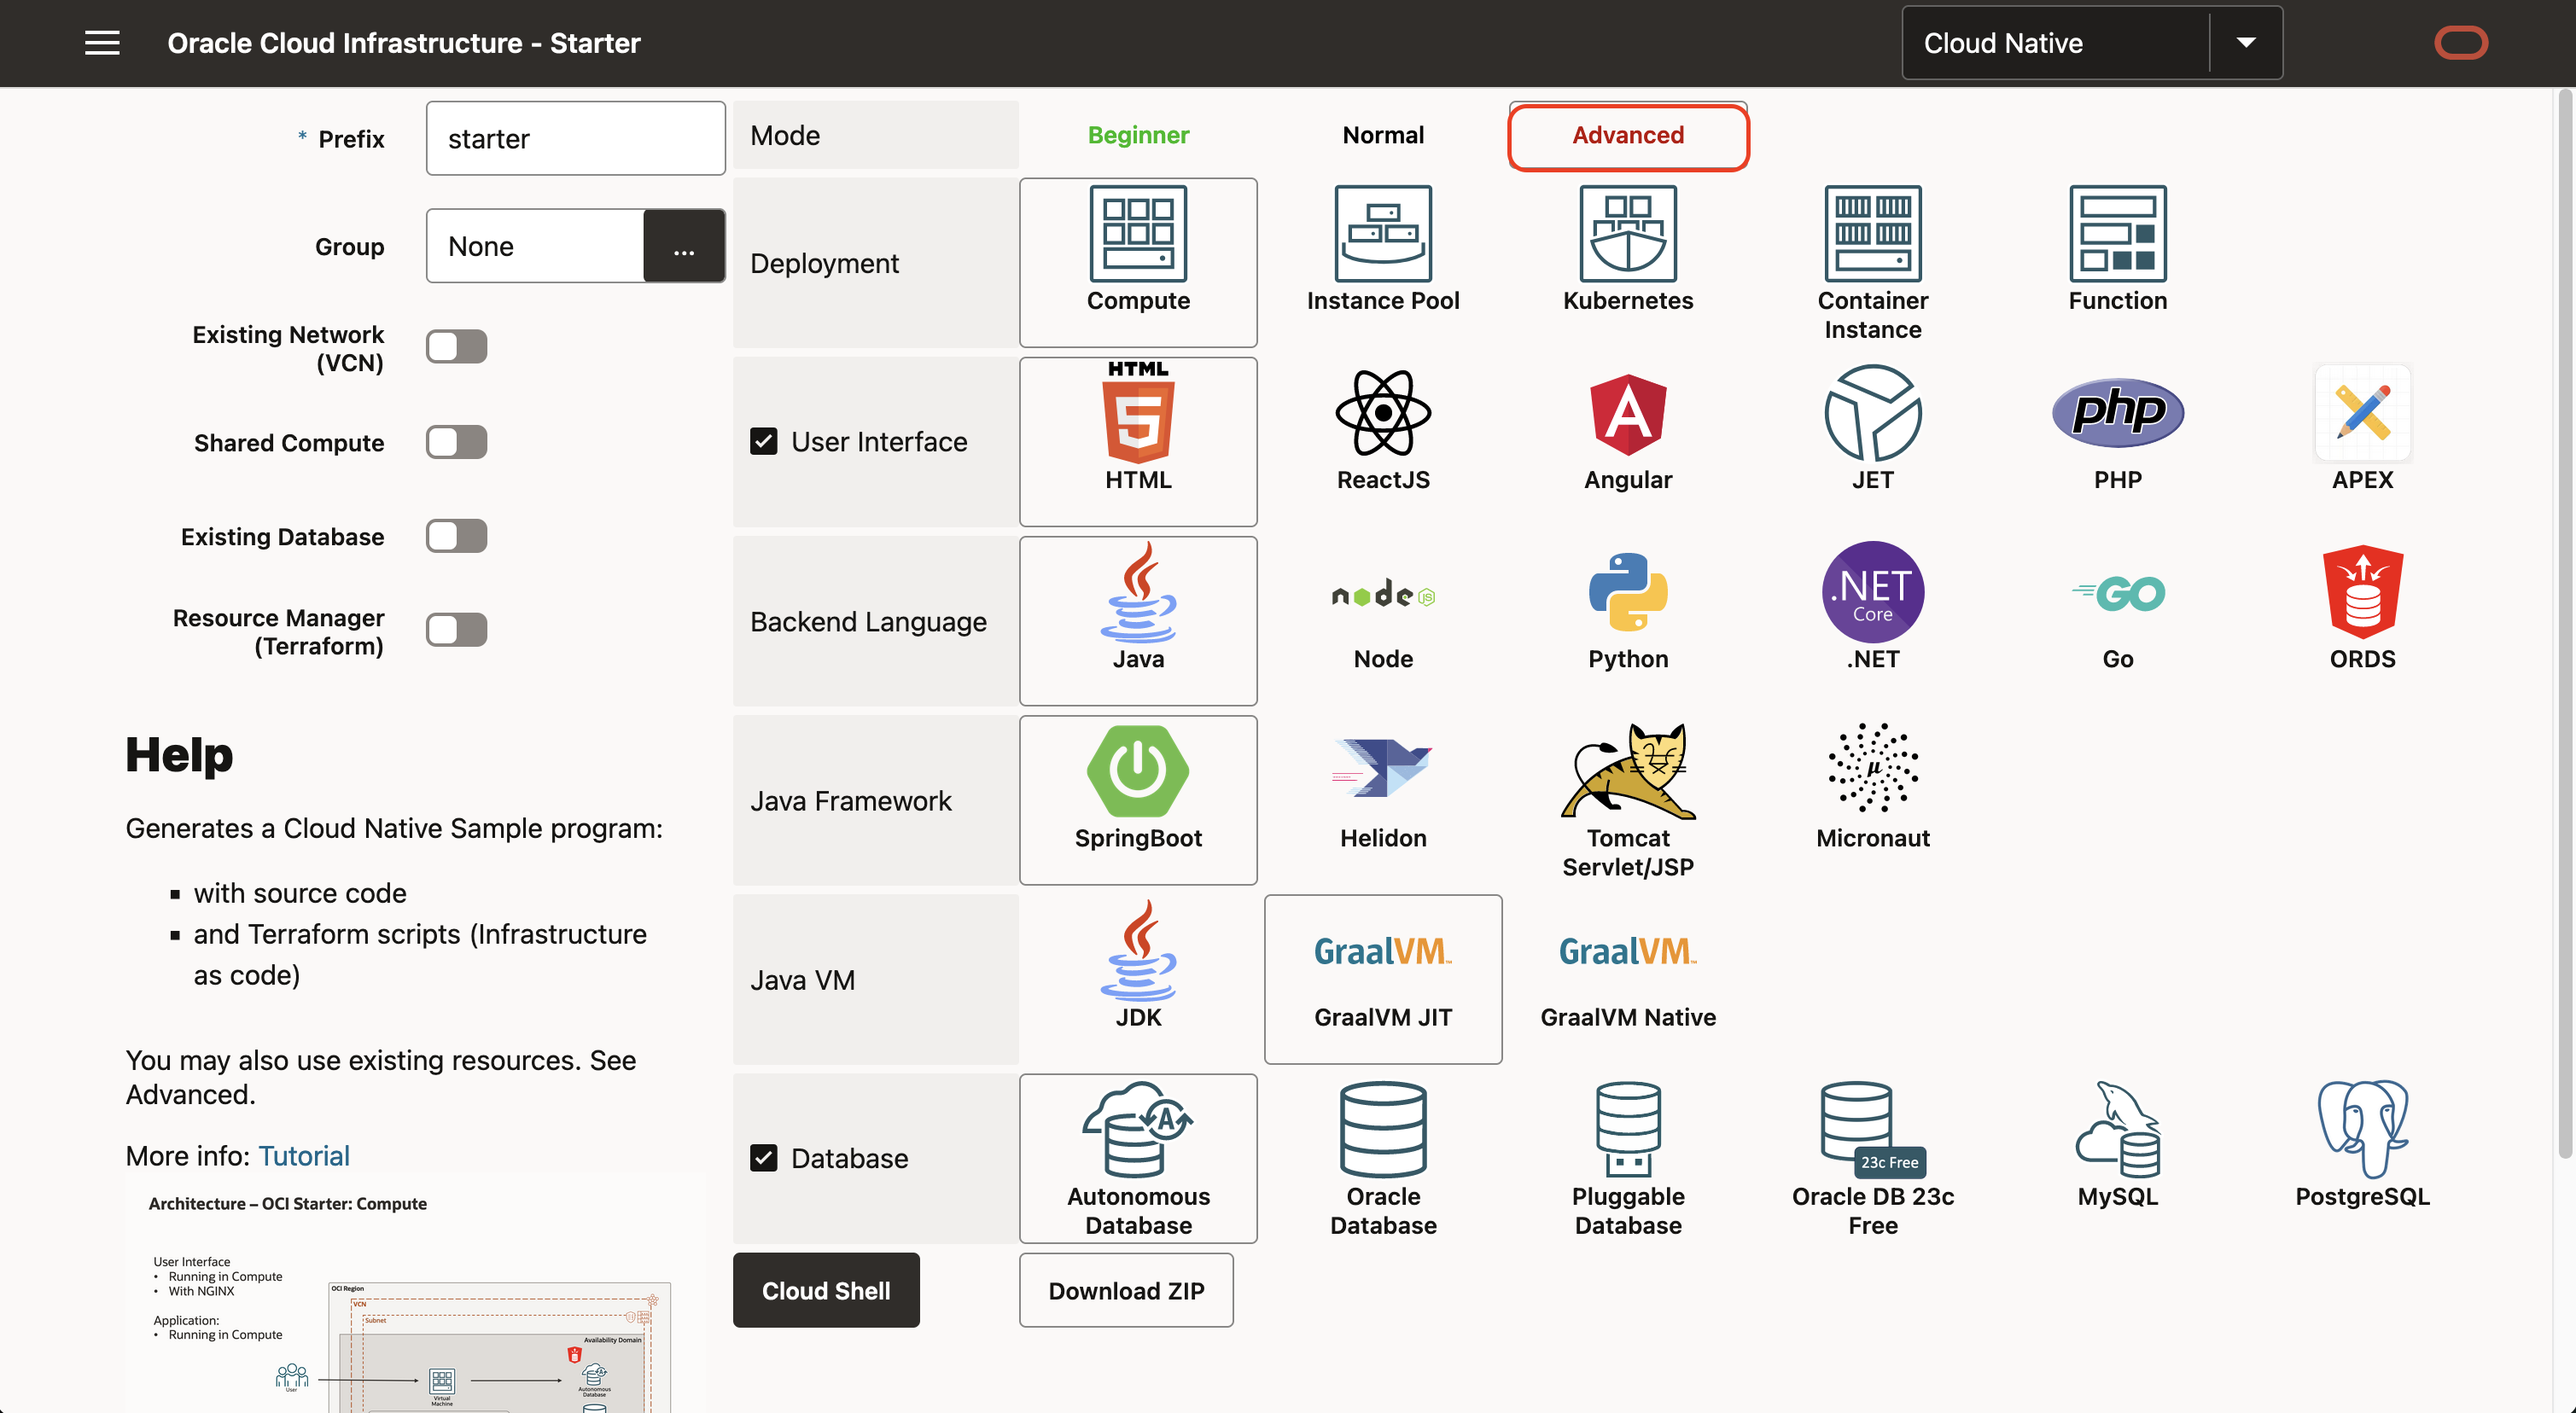
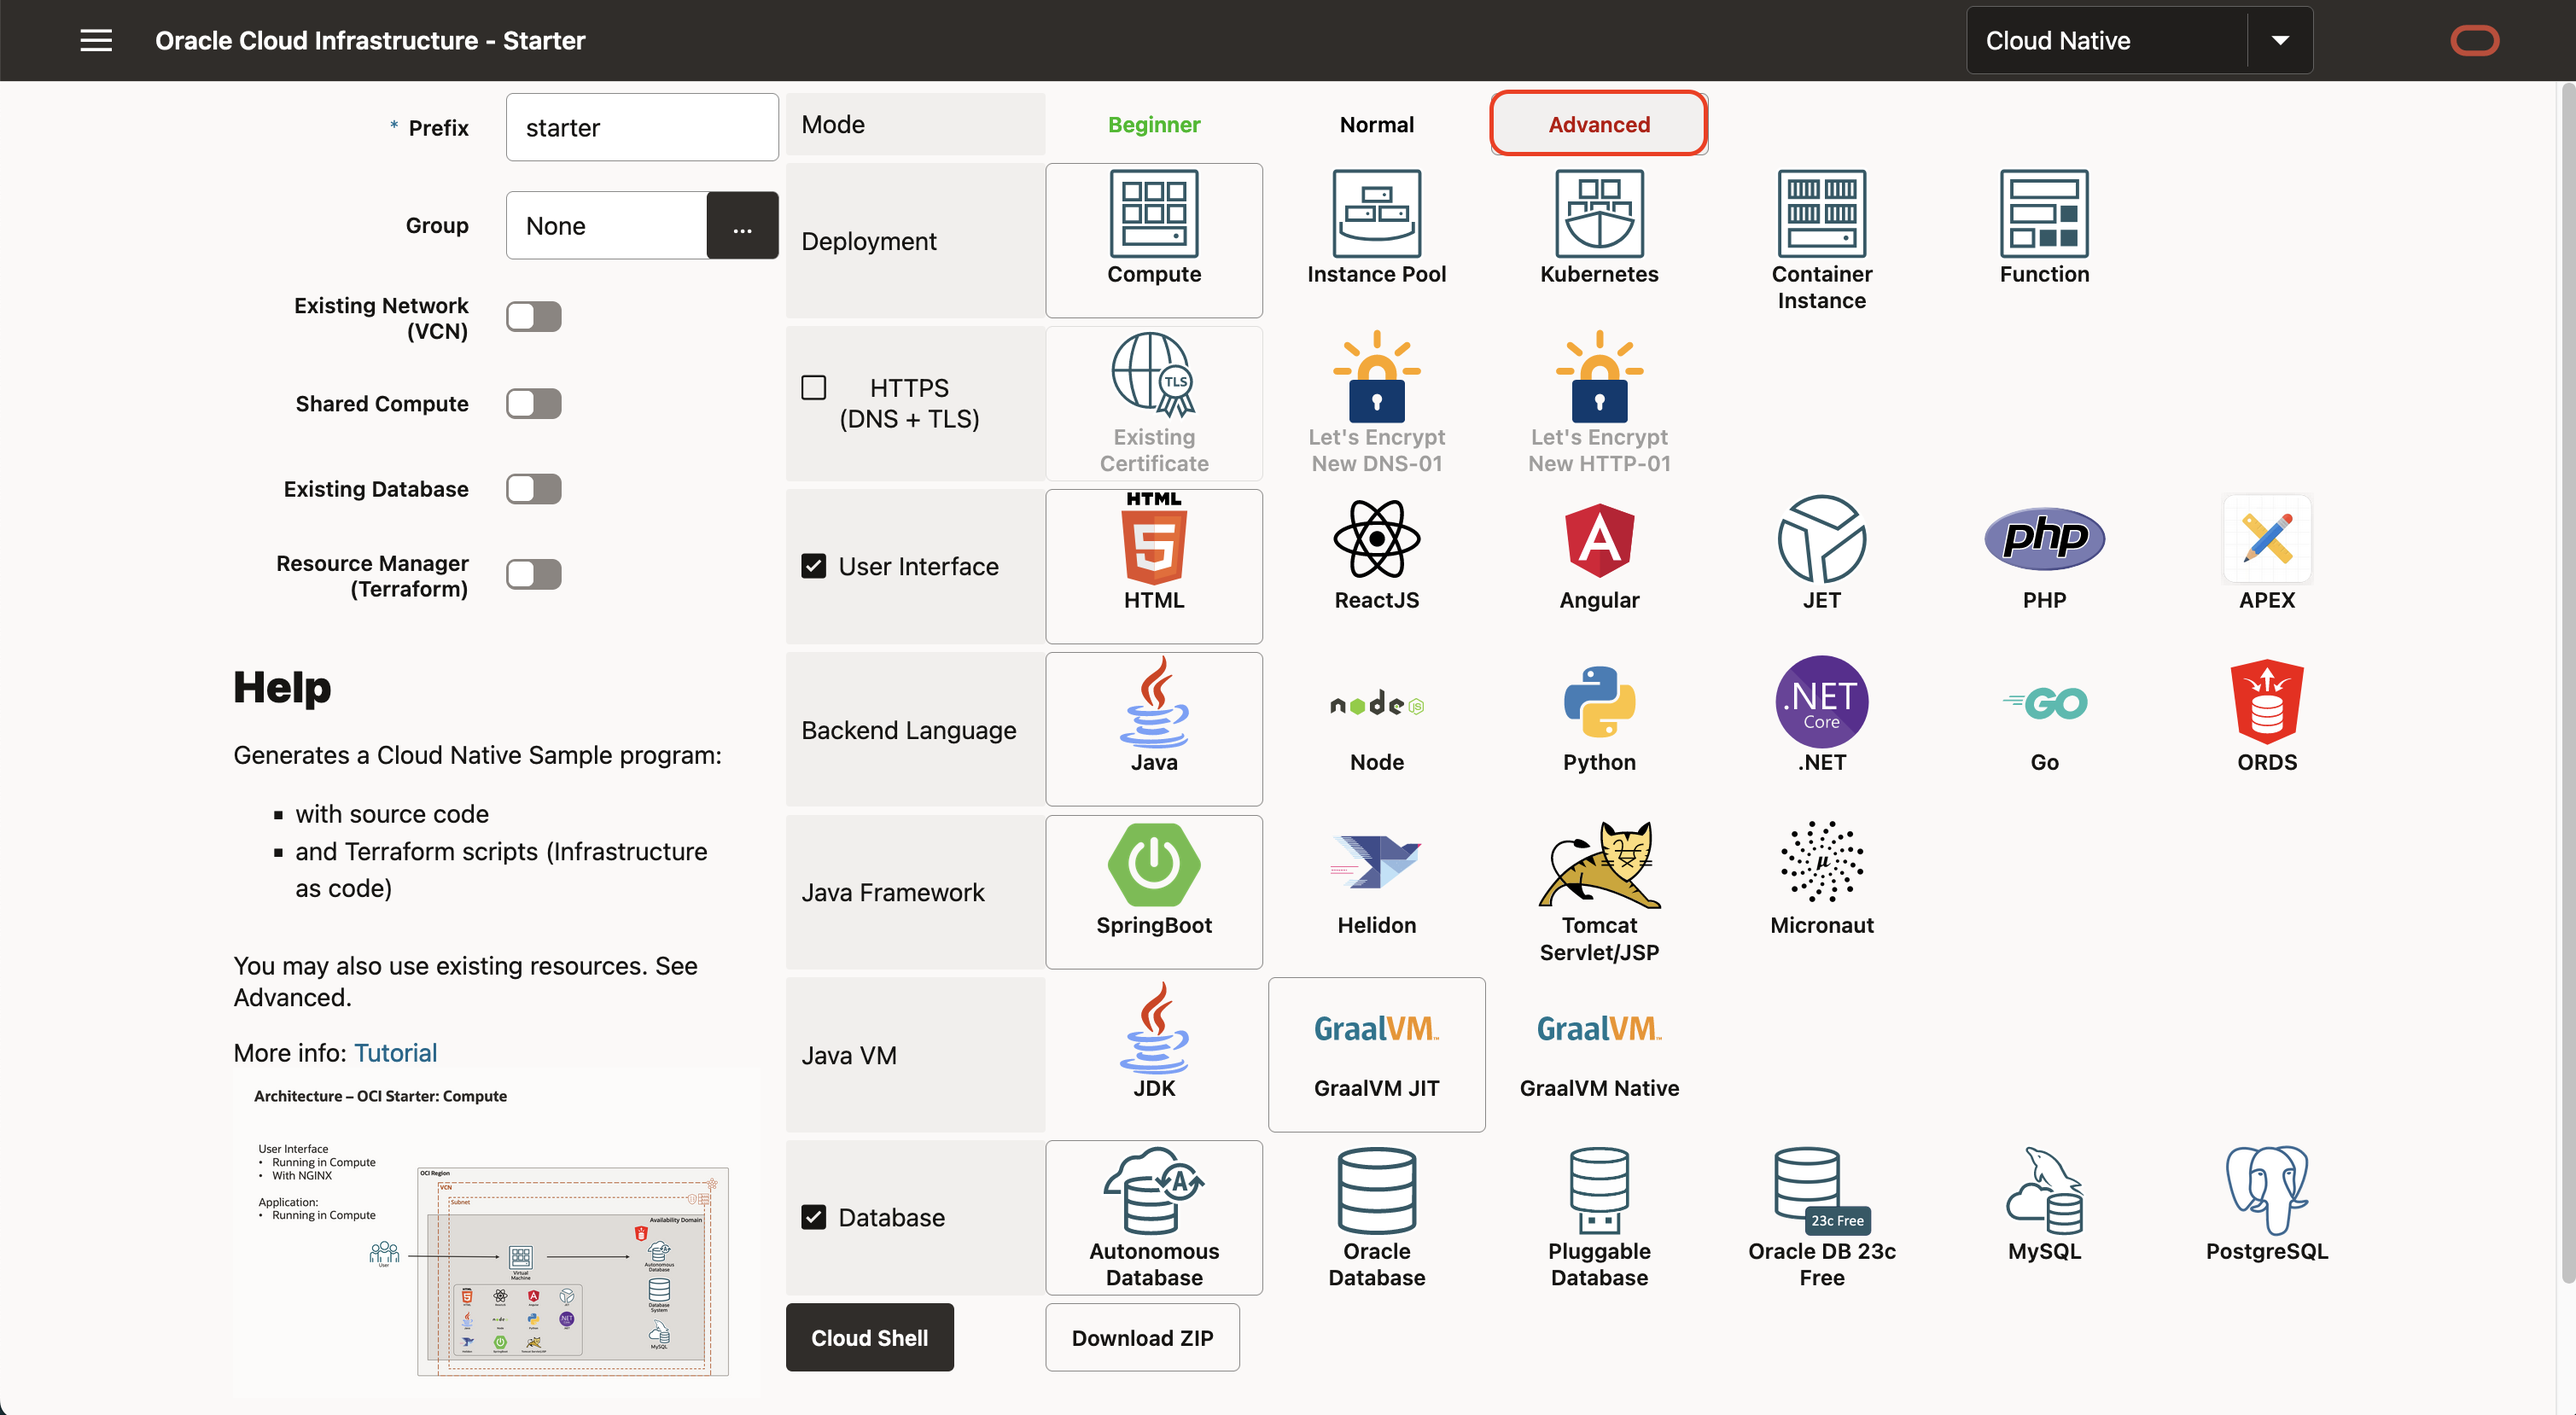
TLS

diff --git a/oci-starter-lab/advanced/advanced.md b/oci-starter-lab/advanced/advanced.md
@@ -50,6 +50,43 @@ You can choose other Java VM to run your program:
         - These advantage come also with a long time to compile. So, it is better to first start first with JIT (JDK or GraalVM). Then to compile with GraalVM Native
         - [More info: see https://www.graalvm.org/22.0/reference-manual/native-image/](https://www.graalvm.org/22.0/reference-manual/native-image/)
 
+## Task 4 - HTTPS = DNS + TLS
+
+It is nicer to have a website with a HTTPS protocol. Like https://www.ocistarter.com.
+
+Before to start, you need 2 common attributes:
+1. A DNS Zone in OCI. There is no such thing than SSL without a DNS domain.
+    - Follow this doc: https://docs.oracle.com/en-us/iaas/Content/DNS/Concepts/gettingstarted_topic-Creating_a_Zone.htm
+    - Note the name of the zone. 
+    - In env.sh, define TF\_VAR\_dns\_zone\_name (ex: mydomain.com)
+2. A DNS name for you website
+    - In env.sh, define TF\_VAR\_dns\_name (ex: www.mydomain.com)
+
+There are 3 ways to have a TLS certificate:
+1. Existing Certificate.
+    - You have already a existing TLS (SSL) certificate 
+    - Or your administrator manage centrally all TLS certificates from OCI Certificate. 
+    - Depending where is your TLS Certificate:
+        - in OCI Certificate
+            - In env.sh, define TF\_VAR\_certificate\_ocid=OCID of certificate OCID
+        - in a directory (files cert.pem, privkey.pem, chain.pem)
+            - In env.sh, define TF\_VAR\_certificate\_dir=Directory where the 3 files resides
+2. Let's Encrypt - DNS-O1
+    - Due that DNS is enabled, let's encrypt can create a TLS Certificate using DNS-01 protocol.
+    - In env.sh, define TF\_VAR\_certificate\_email to the email that will receive certificate updates from Let's encrypt.
+3. Let's Encrypt - HTTP-O1 (Compute Only)
+    - In a compute, it is possible to generate a certificate using the HTTP-01 protocol . 
+    - In env.sh, define TF\_VAR\_certificate\_email to the email that will receive certificate updates from Let's encrypt.
+
+| Method    | To define                     | Advantages                         |
+| --------  | ---------                     | ----------                         | 
+| Existing  | TF\_VAR\_certificate\_ocid or TF\_VAR\_certificate\_dir   | Certificate managed centrally (*)  |
+|           |                               | Private key not exposed            |
+| DNS-01    | TF\_VAR\_certificate\_email   | Works for all deployment types     |
+| HTTP-01   | TF\_VAR\_certificate\_email   | Works for Compute only             |
+|           |                               | No LoadBalancer or API GW needed   |
+{: title="Summary of the advantages"}
+
 ## Acknowledgements 
 
 * Author - Marc Gueury

diff --git a/oci-starter-lab/compute/compute_green.md b/oci-starter-lab/compute/compute_green.md
@@ -86,7 +86,7 @@ We will use to Advanced tab to work with the limits of the LiveLab sandbox. (Exi
 3. Check the env.sh file:
     - Choose the env.sh file.
     - Since we are in LiveLasbs installation, all the settings will be found automatically.
-          - TF_VAR_compartment_ocid, TF_VAR_vcn_ocid / TF_VAR_public_subnet_ocid, TF_VAR_private_subnet_ocid will be found automatically.
+          - TF_VAR\_compartment\_ocid, TF\_VAR\_vcn\_ocid / TF\_VAR\_public\_subnet\_ocid, TF\_VAR\_private\_subnet\_ocid will be found automatically.
           - The database password, if not filled, will be randomly generated.
     ![Editor env.sh](images/starter-compute-env.png)
 

diff --git a/oci-starter-lab/instance_pool/instance_pool.md b/oci-starter-lab/instance_pool/instance_pool.md
@@ -90,8 +90,8 @@ During the build, Terraform will create:
 2. A database
 3. A compute instance to run NGINX + the PHP App
 4. A bastion used mostly to populate the database with the table
-5. A custom image of that compute instance (3)
-6. A Instance Pool with 2 VMs using that custom image (5)
+5. A custom image of the compute instance (3)
+6. A Instance Pool with 2 VMs using the custom image (5)
 7. A load-balancer in front of the instance pool
 
 1. In the code editor, 
